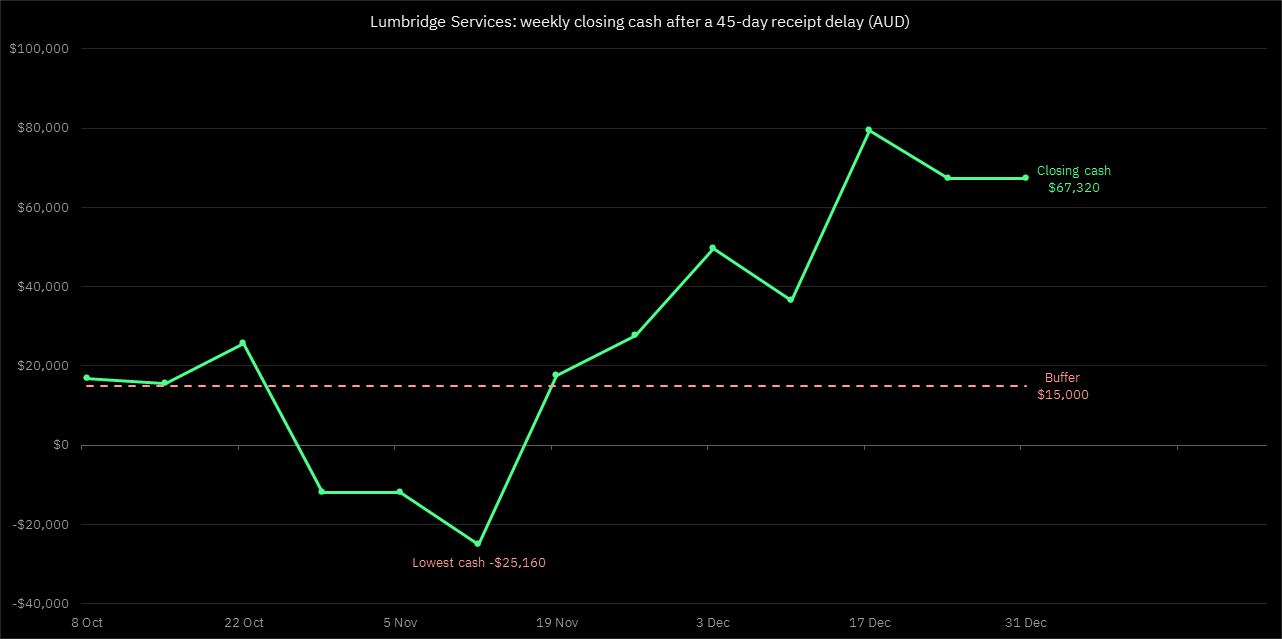
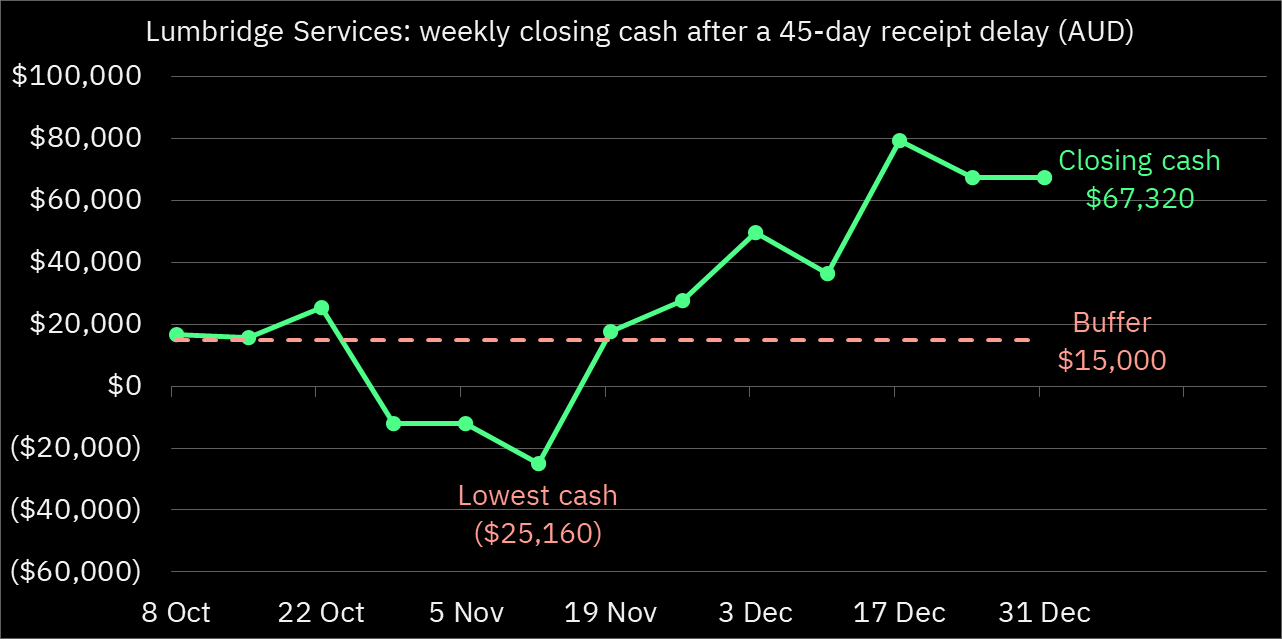
Re-export the cash chart with readable labels and a narrow variant (#256)
Re-exports the Lumbridge cash chart from the pinned workbook in a wide and a narrow variant so its labels render at about 12px or more, serves the narrow chart through a picture source on phones and the tighter two-column widths, writes negatives in parentheses, and retires the 640-pixel resample. Values, dates, series and palette are unchanged.

diff --git a/examples/profit-vs-cash-flow/index.html b/examples/profit-vs-cash-flow/index.html
@@ -61,7 +61,7 @@
         </div>
         <p class="field-note">XLSX, 23,506 bytes. Needs desktop Excel with automatic calculation. The explanation and results below can be read without Excel.</p>
         <p class="byline">Lumbridge Services is fictional. Every business, customer, invoice, balance and date here is fabricated, and all amounts are Australian dollars (AUD). No client outcome is described.</p>
-        <p class="page-meta">Published 18 September 2026. Last reviewed 21 September 2026.</p>
+        <p class="page-meta">Published 18 September 2026. Last reviewed 24 September 2026.</p>
       </header>
       <div class="article-layout site-shell">
         <nav class="article-toc" aria-label="On this page">
@@ -120,8 +120,8 @@
             <p>The two cases end the quarter with the same cash because the delayed receipt still arrives, on 28 November. That later recovery cannot pay the wages, supplier invoices and GST that fall due in late October and early November.</p>
             <p>Against the owner's $15,000 buffer, the late case is $40,160 short at its worst day. A reader looking only at December closing cash, or only at profit, sees neither the shortfall nor its date.</p>
             <figure class="case-preview">
-              <a href="/assets/examples/lumbridge/cash-preview.png"><img src="/assets/examples/lumbridge/cash-preview.png" srcset="/assets/examples/lumbridge/cash-preview-640.png 640w, /assets/examples/lumbridge/cash-preview.png 1282w" sizes="(max-width: 40rem) 100vw, 50vw" width="1282" height="639" loading="lazy" decoding="async" alt="Line chart of 13 weekly closing cash balances in the late case, falling to minus $25,160 before recovering above the $15,000 buffer" /></a>
-              <figcaption>Weekly closing cash in the late case, exported from the distributed workbook in Excel 16.0 on 13 September 2026. The 13 plotted values are $16,800, $15,600, $25,520, ($11,960), ($11,960), ($25,160), $17,640, $27,560, $49,680, $36,480, $79,280, $67,320 and $67,320, against the assumed $15,000 buffer. <a href="/assets/examples/lumbridge/preview-record.txt">Capture record</a>.</figcaption>
+              <a href="/assets/examples/lumbridge/cash-preview.png"><picture><source media="(max-width: 40rem)" srcset="/assets/examples/lumbridge/cash-preview-narrow.png" width="856" height="711" /><img src="/assets/examples/lumbridge/cash-preview.png" width="1282" height="639" loading="lazy" decoding="async" alt="Line chart of 13 weekly closing cash balances in the late case, falling to minus $25,160 before recovering above the $15,000 buffer" /></picture></a>
+              <figcaption>Weekly closing cash in the late case, exported from the distributed workbook in Excel 16.0 on 24 September 2026. The 13 plotted values are $16,800, $15,600, $25,520, ($11,960), ($11,960), ($25,160), $17,640, $27,560, $49,680, $36,480, $79,280, $67,320 and $67,320, against the assumed $15,000 buffer. <a href="/assets/examples/lumbridge/preview-record.txt">Capture record</a>.</figcaption>
             </figure>
           </section>
 
@@ -246,7 +246,7 @@
         "description": "A fabricated Newcastle maintenance business holds quarterly profit at $35,957.55 AUD while one receipt delayed 45 days leaves daily cash $25,160 below zero.",
         "inLanguage": "en-AU",
         "datePublished": "2026-09-18",
-        "dateModified": "2026-09-21",
+        "dateModified": "2026-09-24",
         "isPartOf": { "@id": "https://duguid.com.au/#website" },
         "author": { "@id": "https://duguid.com.au/about/#person" },
         "publisher": { "@id": "https://duguid.com.au/about/#person" },
@@ -264,7 +264,7 @@
         "description": "A fabricated Newcastle maintenance business holds quarterly profit at $35,957.55 AUD while one receipt delayed 45 days leaves daily cash $25,160 below zero.",
         "inLanguage": "en-AU",
         "datePublished": "2026-09-18",
-        "dateModified": "2026-09-21",
+        "dateModified": "2026-09-24",
         "isPartOf": { "@id": "https://duguid.com.au/#website" },
         "author": { "@id": "https://duguid.com.au/about/#person" },
         "publisher": { "@id": "https://duguid.com.au/about/#person" },

diff --git a/index.html b/index.html
@@ -64,8 +64,8 @@
           <p>Lumbridge Services is a fictional Newcastle maintenance business. Delay one customer receipt by 45 days and inspect the cash gap in its Excel forecast. The quarter's profit stays the same.</p>
         </div>
         <figure class="case-preview">
-          <a href="/assets/examples/lumbridge/cash-preview.png"><img src="/assets/examples/lumbridge/cash-preview.png" srcset="/assets/examples/lumbridge/cash-preview-640.png 640w, /assets/examples/lumbridge/cash-preview.png 1282w" sizes="(max-width: 40rem) 100vw, 50vw" width="1282" height="639" fetchpriority="high" decoding="async" alt="Excel chart of weekly closing cash after a 45-day receipt delay, showing the cash gap against the assumed buffer" /></a>
-          <figcaption>Cash 13 weeks, 45-day delay: lowest weekly cash ($25,160); assumed buffer $15,000; December closing cash $67,320, as it would be without the delay. <a href="/assets/examples/lumbridge/cash-preview.png">View full-size chart</a>. Exported from the supplied workbook in Excel 16.0 on 13 September 2026. <a href="/assets/examples/lumbridge/preview-record.txt">Capture record</a>.</figcaption>
+          <a href="/assets/examples/lumbridge/cash-preview.png"><picture><source media="(max-width: 40rem), (min-width: 56.0625rem) and (max-width: 75rem)" srcset="/assets/examples/lumbridge/cash-preview-narrow.png" width="856" height="711" /><img src="/assets/examples/lumbridge/cash-preview.png" width="1282" height="639" fetchpriority="high" decoding="async" alt="Excel chart of weekly closing cash after a 45-day receipt delay, showing the cash gap against the assumed buffer" /></picture></a>
+          <figcaption>Cash 13 weeks, 45-day delay: lowest weekly cash ($25,160); assumed buffer $15,000; December closing cash $67,320, as it would be without the delay. <a href="/assets/examples/lumbridge/cash-preview.png">View full-size chart</a>. Exported from the supplied workbook in Excel 16.0 on 24 September 2026. <a href="/assets/examples/lumbridge/preview-record.txt">Capture record</a>.</figcaption>
         </figure>
       </section>
     </section>

diff --git a/changelog/index.html b/changelog/index.html
@@ -67,6 +67,7 @@
                 <tr><th scope="col">Date</th><th scope="col">Change</th></tr>
               </thead>
               <tbody>
+                <tr><td>24 September 2026</td><td>The cash flow chart on the homepage and the cash flow example was re-exported from the workbook with larger text, plus a narrower version for phones, so its axis labels and callouts are readable at the size the page shows them. The figures are unchanged.</td></tr>
                 <tr><td>24 September 2026</td><td>Copy edit on Home, About, Tools and Evaluations: repeated disclaimers removed, homepage headings made parallel without full stops, and negative amounts and percentages written one way.</td></tr>
                 <tr><td>24 September 2026</td><td>The homepage drops a worked example that repeated a task row, lines its section headings up with the main heading, and shortens the note under the hero. The Human and Machine view switch moved into the header, so it no longer covers text while scrolling.</td></tr>
                 <tr><td>24 September 2026</td><td>The Australian tax tools for AI agents page now documents MCP release 0.2.7, which adds a Schedule 1 PAYG withholding worksheet for regular weekly, fortnightly and monthly pays from 1 July 2026, bringing the bounded tax worksheets to seven.</td></tr>

diff --git a/DESIGN.md b/DESIGN.md
@@ -16,6 +16,16 @@ The canonical routes, the dark-only token palette and the rate main text are fro
 
 ## Current refinement record
 
+The 24 September chart pass re-exports the Lumbridge cash chart in two
+variants so its labels render at about 12px or more wherever the page shows
+it. The old export set 10 point text on a 1282-pixel image drawn at about
+560px, so its axis labels rendered near 6px. The wide export keeps its
+1282 by 639 pixels with 22 point text; a narrow 856 by 711 export with 24
+point text serves phones and the two-column hero between 56 and 75rem,
+through a picture source. The value axis gains one $20,000 step below the
+trough so the lowest-week label clears the dates. The 640-pixel resample is
+retired. Values, dates, series and palette are unchanged.
+
 The 24 September homepage pass removes the Workpaper Review Gate worked
 example, which repeated the third task row and the first adoption link, so
 the proof band keeps the one Coal LSL artefact under the heading 'Worked
